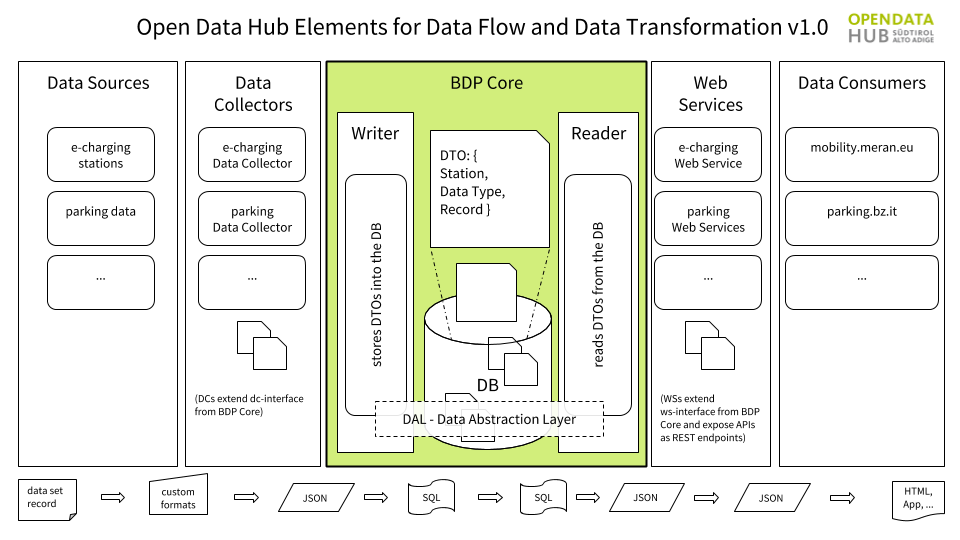
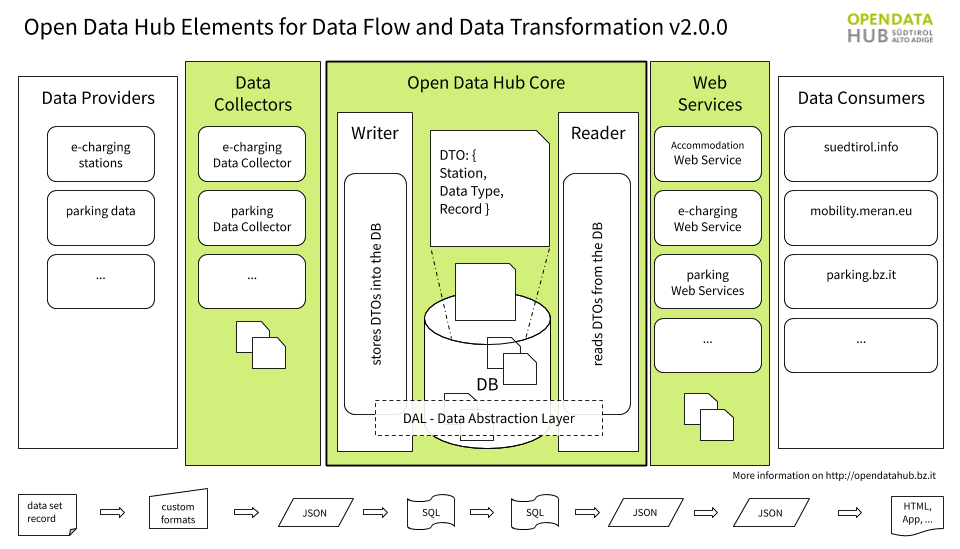
Updated ODH architecture section #59 #68

diff --git a/source/architecture.rst b/source/architecture.rst
@@ -50,20 +50,21 @@ As :numref:`arch-odh` shows, the |odh| is composed by a number of
 elements, described in the remainder of this section in the same order
 as they appear in the picture.
 
-.. _data-source-def:
+.. _data-provider-def:
 
-Data Source
-   A Data Source is the origin of one ore more datasets, which usually
-   belongs to a single domain. Data are usually automatically picked
-   up by sensors and stored in some format, like for example CSV.
+Data Providers
+   A :ref:`Data Provider <data-providers>` is a person, company or
+   public body that supplies to the |odh| some data or dataset, which
+   usually belongs to a single domain. Data are automatically picked
+   up by sensors and stored in some format, like for example CSV or
+   :term:`JSON`.
 
-   .. note:: Each data source is provided by one :strong:`Data
-      Provider`. Since a data provider may decide to not publish its
-      data on the |odh| anymore, or new data providers can join the
-      |odh| in the future, they are not an official part of the
-      |odh|. You can learn more on this, including the current list of
-      data providers, in the :ref:`dedicated section <data-providers>`
-      of the documentation.
+   .. note:: Since a data provider may decide at some point to not
+      publish its data on the |odh| anymore, or new data providers can
+      join the |odh| in the future, they are not an official part of
+      the |odh|. You can learn more on this, including the current
+      list of data providers, in the :ref:`dedicated section
+      <data-providers>` of the documentation.
 
 .. _dataset-def:
 

diff --git a/source/datasets.rst b/source/datasets.rst
@@ -38,10 +38,10 @@ the |odh| to build their application. These entities can be private
 companies or enterprises, public bodies, and even private citizen, if
 they have interesting data about South Tyrol to share.
 
-The Open Data exposed by the |odh| originate from :ref:`data sources
-<data-source-def>` owned by different actors (called :strong:`Data
-Providers`) that are mostly local public bodies. Since there is no
-direct 1-to-1 correspondence between Data Providers and datasets, we
+The Open Data exposed by the |odh| originate from data and datasets
+owned by different actors (called :strong:`Data Providers`) which are
+at this time mostly local public bodies. Since there is no direct
+1-to-1 correspondence between Data Providers and datasets, we
 currently offer only a list of data providers whose data can be pulled
 from |odh|\. Indeed, an |odh| dataset can be composed of data deriving
 from different providers, while a provider can submit to |odh|

diff --git a/source/glossary.rst b/source/glossary.rst
@@ -35,10 +35,10 @@ Glossary
       as tuples {attribute, value}, with no constraint of uniqueness
       on both attribute and value.
      
-   Data Source
-      A Data Source is the origin of a dataset. See the
-      :ref:`detailed description <data-source-def>`.
-
+   Data Provider  
+      A Data Provider is an entity that supplies data or datasets to
+      the |odh|. See how it :ref:`is integrated <data-provider-def>`
+      in the |odh| and a :ref:`detailed description <data-providers>`.
 
    Data Collector   
       A component of the |odh|\, a data collector is used to gather
